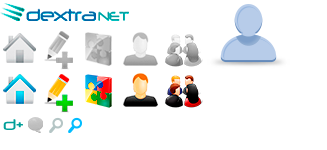
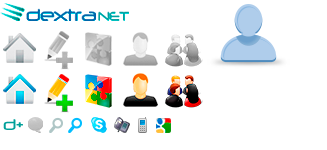
[Layout] Página Equipe + Ajustes

diff --git a/src/main/webapp/css/main.css b/src/main/webapp/css/main.css
@@ -37,6 +37,10 @@ html{font-size:100%;}
 .shape_arrow_down{width:0;height:0;border-left:5px solid transparent;border-right:5px solid transparent;border-bottom:5px solid #35679a;display:inline-block;margin-left:6px;-moz-transform:rotate(180deg);-ms-transform:rotate(180deg);-webkit-transform:rotate(180deg);-o-transform:rotate(180deg);vertical-align:middle;}
 
 .icon_avatarcommon{width:80px;height:72px;background-position:-209px -2px;}
+.icon_gtalk-mini{background-position:-155px -118px;}
+.icon_skype-mini{background-position:-91px -117px;}
+.icon_cellphone-mini{background-position:-114px -118px;}
+.icon_phone-mini{background-position:-134px -118px;}
 
 /*----------  Características  ----------*/
 .clear{clear:both;}
@@ -73,14 +77,16 @@ h1{color:#0066a2;font-size:18px;font-weight:bold;margin-bottom:25px;}
 
 small{font-size:70%;}
 
-.btn{background-color:#ccc;border-radius:5px;border:1px solid #aaa;box-shadow:inset 0 30px 30px -30px #fbfbfb;padding:4px 12px;cursor:pointer;color:#222;text-shadow:0 -1px 0 #eee;font-size:13px;font-weight:bold!important;vertical-align:top;}
+.btn{background-color:#ccc;border-radius:5px;border:1px solid #aaa;box-shadow:inset 0 30px 30px -30px #fbfbfb;padding:4px 12px;cursor:pointer;color:#555;text-shadow:0 -1px 0 #eee;font-size:13px;font-weight:bold!important;vertical-align:top;}
 .btn:hover{background-color:#c3c3c3;}
-.btn:active{box-shadow:inset 0 30px 30px -30px #bbb;background-color:#ddd;border-color:#aaa;padding-top:5px;padding-bottom:3px;}
+.btn:active{box-shadow:inset 0 30px 30px -30px #bbb;background-color:#ddd;border-color:#aaa;padding-top:5px;padding-bottom:3px;color:#666;}
 
 .btn-blue{background-color:#0066a2;border-color:#3381af;color:#414141;text-shadow:0 -1px 1px #005e95;box-shadow:inset 0 35px 35px -30px #00deff;color:#fff;}
 .btn-blue:hover{background-color:#005181;}
 .btn-blue:active{background-color:#008ebd;box-shadow:inset 0 30px 30px -30px #0066a2;border-color:#196a9b;color:#c8e6f2;}
 
+.btn-big{padding:7px 14px;}
+.btn-big:active{padding-top:8px;padding-bottom:6px;}
 .btn-block{width:100%;}
 
 /*----------  Formulários  ----------*/
@@ -94,7 +100,6 @@ textarea:focus{color:#5c95d5;border-color:#9bc7f8;box-shadow:0 0 5px #75b6ff,ins
 
 #form_search{position:relative;z-index:2;}
 #form_search_input{padding-right:25px;width:250px;position:relative;z-index:3;font-size:13px;padding:4px 35px 4px 10px;}
-#form_search_input_name{padding-right:25px;width:250px;position:relative;z-index:3;font-size:13px;padding:4px 35px 4px 10px;}
 #form_search_submit_name{background-color:transparent;box-shadow:0 0 0 transparent;border:0;background:url('../img/main-bundle.png') -46px -115px;position:absolute;z-index:4;cursor:pointer;right:25px;top:4px;width:22px;height:22px;}
 #form_search_submit{background-color:transparent;box-shadow:0 0 0 transparent;border:0;background:url('../img/main-bundle.png') -46px -115px;position:absolute;z-index:4;cursor:pointer;right:25px;top:4px;width:22px;height:22px;}
 #form_search_input:focus + #form_search_submit{background-position:-65px -115px;}
@@ -108,7 +113,10 @@ textarea:focus{color:#5c95d5;border-color:#9bc7f8;box-shadow:0 0 5px #75b6ff,ins
 .form-dark textarea:focus,
 .form-dark select:focus{color:#2183d5;background-color:#ecf7ff;box-shadow:inset 0 1px 0 0 #f5f5f5,inset 0 3px 3px 0 #cae7fa;}
 
-.form-horizontal{}
+.form-big input,
+.form-big select,
+.form-big textarea{font-size:16px;}
+
 .form-horizontal dd,
 .form-horizontal dt{float:left;margin-bottom:25px;}
 .form-horizontal dt{clear:both;width:135px;}
@@ -121,6 +129,10 @@ textarea:focus{color:#5c95d5;border-color:#9bc7f8;box-shadow:0 0 5px #75b6ff,ins
 .form-fields-large textarea,
 .form-fields-large select{width:300px;}
 .form-fields-large.form-horizontal dd{width:300px;}
+
+.form-fields-block input,
+.form-fields-block textarea,
+.form-fields-block select{width:100%;}
 
 /*----------  Header  ----------*/
 #header_placeholder{height:39px;position:relative;z-index:1;margin-bottom:30px;}
@@ -254,7 +266,6 @@ textarea:focus{color:#5c95d5;border-color:#9bc7f8;box-shadow:0 0 5px #75b6ff,ins
 .list_stories_footer_call{color:#4887C6;font-size:12px}
 .list_stories_footer_call{float:right;text-align:right; margin-right:5px}
 
-
 .list_stories_comment > li{border-radius:5px;background-color:#fcfcfc;border:1px solid #ced1d3;padding:12px;box-shadow:0 0 5px #ced1d3,inset 0 20px 20px -20px #d8dadb;margin-bottom:20px;}
 .list_stories_comment_lead > ul{list-style:disc; margin:15px;}
 .list_stories_comment_avatar{float:left;margin-right:10px;border:1px solid #ced1d3;padding:1px;background-color:#eee;width:45px;height:45px;border-radius:5px;}
@@ -292,19 +303,48 @@ textarea:focus{color:#5c95d5;border-color:#9bc7f8;box-shadow:0 0 5px #75b6ff,ins
 .message .warning { border:1px solid #9F6000; background-color:#FEEFB3; background-image:url('../img/warning.png'); }
 .message .success { background-image:url('../img/success.png'); }
 
-/*----------  Listagem de estórias de equipe  ----------*/
-/* Menu abcd */
-.list-menu-abcd { margin-bottom:20px;}
-.list-menu-abcd li { display:inline; padding-left:4px; padding-right:4px;}
-.list-menu-abcd li  a{ font-size: 1.1em;}
+/*----------  Equipe  ----------*/
+.list-menu-abcd{margin-bottom:25px;list-style:none;background-color:#f9f9f9;padding-left:4px;border-radius:5px;border:1px solid #eaeaea;box-shadow:inset 0 0 0 1px #fff,inset 0 3px 3px #eee;}
+.list-menu-abcd > li {float:left;margin-right:2px;}
+.list-menu-abcd > li > a{display:block;padding:6px 4px;font-weight:bold;font-size:15px;text-transform:uppercase;}
+.list-menu-abcd > li > a:hover{background-color:rgba(0,0,0,0.05);}
 
-.team-list-stories > li{border-radius:5px;background-color:#fcfcfc;border:1px solid #ced1d3;padding:12px;box-shadow:0 0 5px #ced1d3,inset 0 20px 20px -20px #d8dadb;margin-bottom:20px; width:30%; margin-right:20px; float:left}
-.team-list-stories .list-stories-avatar{width:115px;height:115px;}
-.team-list-stories-dados li { font-size:.8em; line-height:1.9em;color:#4e739c}
-.team-list-stories .list-stories-footer{height:16px;}
+#form-team{position:relative;margin:5px 0 15px;}
+#form-team-input{width:412px;margin-right:15px;}
+#form-team-submit{background-color:transparent;box-shadow:0 0 0 transparent;border:0;background:url('../img/main-bundle.png') -46px -115px;position:absolute;z-index:4;cursor:pointer;right:115px;top:7px;width:22px;height:22px;}
+#form-team-input:focus + #form-team-submit{background-position:-65px -115px;}
 
-/* Pagination */
-/* .list-pagination {text-align:center} */
+.list-team{list-style:none;}
+.list-team > li{border-bottom:dotted 1px #ddd;padding-bottom:15px;margin-bottom:20px;}
+.list-team > li:last-child{padding-bottom:0;border-bottom:0;margin-bottom:0;}
+
+.list-team-empty{text-align:center;border-radius:15px;padding-bottom:10px!important;}
+.list-team-empty > p{padding-bottom:0;color:#887d52;line-height:20px;}
+.list-team-empty > p > img{margin-bottom:10px;}
+.list-team-empty > p > span{display:block;clear:both;}
+.list-team > li .empty{color:#777;font-style:italic;}
+
+.list-team-avatar{float:left;margin-right:20px;width:87px;}
+.list-team-avatar > .avatar-frame{width:85px;height:85px;margin:1px;}
+.list-team-avatar > .avatar-frame > span{margin-top:11px;}
+.list-team-avatar > .avatar-frame > img{width:85px;max-height:85px;}
+
+.list-team-content{float:left;width:387px;}
+.list-team-content > h3{color:#436795;font-size:15px;margin-bottom:0;}
+.list-team-content > h3 > span{color:#7d91ab;font-size:13px;}
+.list-team-content p{padding-bottom:3px;font-size:13px;color:#666;}
+.list-team-content span.left{float:left;display:block;min-width:150px;}
+.list-team-content-geral [class^=icon],
+.list-team-content-ramal [class^=icon],
+.list-team-content-webcontact [class^=icon],
+.list-team-content-phones [class^=icon]{margin-right:3px;}
+.list-team-content-geral{margin-bottom:10px;}
+.list-team-content-ramal{float:right;}
+.list-team-content-webcontact{}
+.list-team-content-phones{}
+
+/*----------  Paginação  ----------*/
+.list-pagination {text-align:center}
 .list-pagination li { display:inline-block; padding-left:4px; padding-right:4px; border:solid 1px #cfd5d9;width:1.5em; height:1.5em; text-align:center;background-color:#d5d9db }
 .list-pagination li a{ display:block;font-size: .9em;  margin-top:4px; font-weight:bold;text-shadow:0 1px 1px #fff;}
 .list-pagination li:hover{background-color:#e9eef3;}
@@ -312,7 +352,6 @@ textarea:focus{color:#5c95d5;border-color:#9bc7f8;box-shadow:0 0 5px #75b6ff,ins
 
 /*----------  Listagem de estórias de usuários  ----------*/
 .list-stories > li{border-radius:5px;background-color:#fcfcfc;border:1px solid #ced1d3;padding:12px;box-shadow:0 0 5px #ced1d3,inset 0 20px 20px -20px #d8dadb;margin-bottom:20px;}
-.list-stories-avatar{float:left;margin-right:10px;border:1px solid #ced1d3;padding:1px;background-color:#eee;width:50px;height:50px;border-radius:5px;}
 .list-stories-headline{margin-bottom:20px;}
 .list-stories-headline > h2{font-weight:bold;font-size:18px;text-transform:uppercase;color:#35679a;margin:4px 0 5px;}
 .list-stories-headline-comments,
@@ -351,7 +390,7 @@ textarea:focus{color:#5c95d5;border-color:#9bc7f8;box-shadow:0 0 5px #75b6ff,ins
 	border-radius:5px;
 	opacity:0;}
 .avatar-frame:hover .avatar-alterar{opacity:1;}
-	
+
 #new_photo{float:left;margin-right:30px;margin-bottom:20px;}
 #new_photo > input[type="file"]{display:none;}
 
@@ -367,7 +406,7 @@ textarea:focus{color:#5c95d5;border-color:#9bc7f8;box-shadow:0 0 5px #75b6ff,ins
 #new_perfil .perfil-clear-right{float:left;margin-top:15px;}
 #new_perfil .perfil-clear-right > dt{width:100px;}
 #new_perfil .perfil-clear-right > dd{width:167px;}
-	
+
 /* Tipsy */
 .content-right .tipsy,
 .content-right .tipsy-arrow {top: +20px;}

diff --git a/src/main/webapp/js/dextranet/interface.js b/src/main/webapp/js/dextranet/interface.js
@@ -1,8 +1,8 @@
 (function($)
 {
-	/**
-	 * Plugin p/ placeholder de inputs de formulário.
-	 */
+/**
+ * Plugin p/ placeholder de inputs de formulário.
+ */
 	jQuery.fn.extend({
 		placeholder: function(value)
 		{
@@ -44,7 +44,8 @@
  * Document.ready
  */
 	$(document).ready(function()
-	{		
+	{
+		// Header -> Abrertura dos menus
 		$('#header_main_menu > li').die().live('click', function()
 		{
 			if ( $(this).hasClass('active') === false )
@@ -55,6 +56,7 @@
 			}
 		});
 		
+		// Header -> abertura da caixa de dados do usuário
 		$('#box_user').die().live('click', function()
 		{
 			if ( $(this).hasClass('active') === false )
@@ -64,11 +66,13 @@
 			}
 		});
 		
+		// Header -> fechamento de caixas dropdown
 		$('#box_user_info,#box_user_notifications').die().live('click', function()
 		{
 			$(this).find('.header_dropdown').show();
 		});
 		
+		// Diálogos -> fechamento no clique
 		$('.message > li').live('click', function()
 		{
 			$(this).animate({ 'height' : 0, 'opacity' : 0, 'paddingTop' : 0, 'paddingBottom' : 0 }, 300, function() {

diff --git a/src/main/webapp/index.html b/src/main/webapp/index.html
@@ -3,7 +3,7 @@
 <head>
 <meta http-equiv="Content-Type" content="text/html;charset=UTF-8">
 
-	<link href='http://fonts.googleapis.com/css?family=PT+Sans:400,400italic,700,700italic' rel='stylesheet' type='text/css'>
+	<link href='http://fonts.googleapis.com/css?family=Open+Sans:400,400italic,600' rel='stylesheet' type='text/css'>
 
 	<!-- Biblioteca Holy -->
 	<script type="text/javascript" src="js/lib/jquery-1.9.1.min.js"></script>
